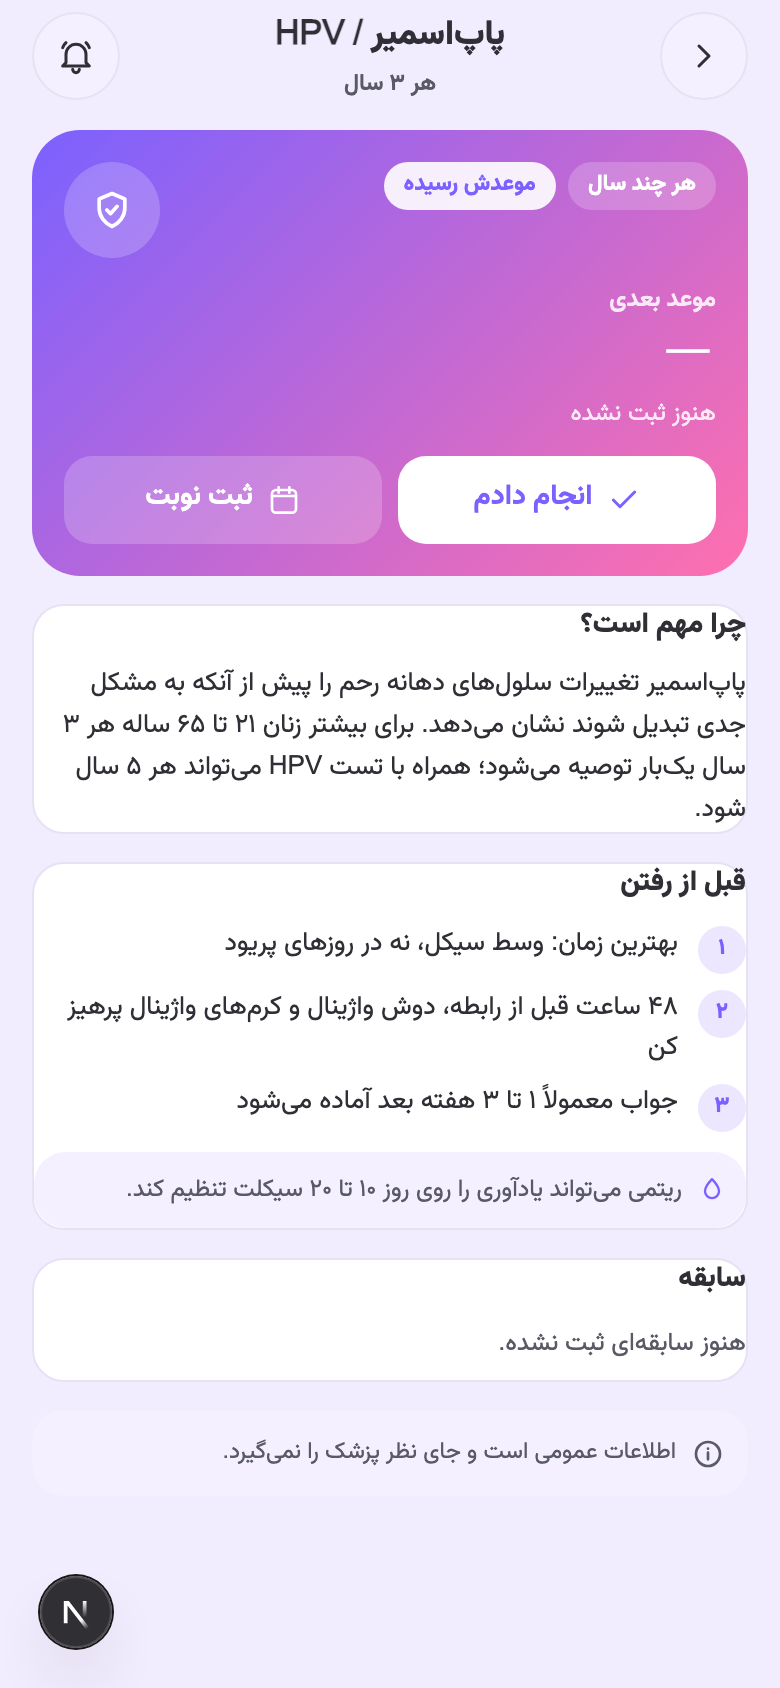
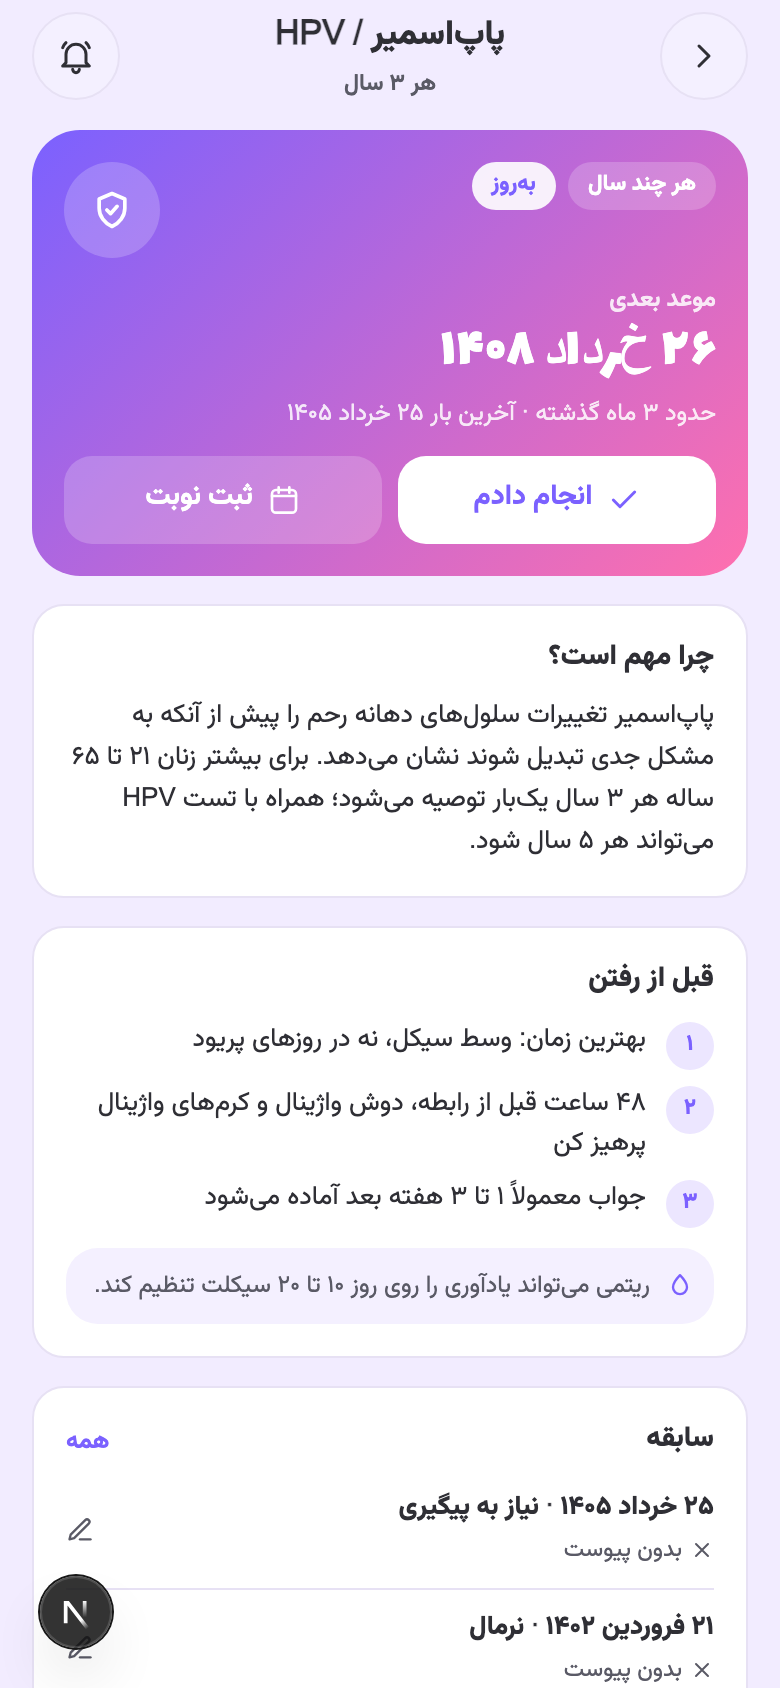
fix(checkups): PDF footer, card padding, locale digits and section order (T-M4-11)

diff --git a/frontend/src/screens/checkup-history/ui/CheckupHistoryPage.tsx b/frontend/src/screens/checkup-history/ui/CheckupHistoryPage.tsx
@@ -79,7 +79,7 @@ function useSummaryPdf(type: number | null) {
       }
       blocks.push({ kind: 'rule' });
       blocks.push({ kind: 'muted', text: t('history.pdf.disclaimer') });
-      const blob = await renderPdf({ blocks, dir, footer: t('history.pdf.footer') });
+      const blob = await renderPdf({ blocks, dir, locale, footer: t.raw('history.pdf.footer') as string });
       await shareOrDownloadFile(blob, t('history.pdf.filename'));
       setState('idle');
     } catch {
@@ -119,7 +119,7 @@ function RecordItem({ record, last }: { record: CheckupRecord; last: boolean }) 
         </span>
         <button
           type="button"
-          className="card flex w-full flex-col gap-1.5 text-start"
+          className="card flex w-full flex-col gap-1.5 p-4 text-start"
           aria-label={t('detail.editRecord')}
           onClick={() => openSheet(MARK_DONE_SHEET, editRecordSheetArg(record))}
         >
@@ -163,6 +163,7 @@ function RecordItem({ record, last }: { record: CheckupRecord; last: boolean }) 
  */
 export function CheckupHistoryPage({ type }: { type: number | null }) {
   const t = useTranslations('checkups');
+  const locale = useLocale() as Locale;
   const dir = useDirection();
   const [filter, setFilter] = useState<CheckupRecordFilter>('all');
   const query = useCheckupRecords({ filter, type });
@@ -198,7 +199,7 @@ export function CheckupHistoryPage({ type }: { type: number | null }) {
           <div className="rmd-hdr-text">
             <h1 className="rmd-hdr-title">{t('history.title')}</h1>
             {query.data && (
-              <p className="rmd-hdr-sub">{t('history.count', { count: total })}</p>
+              <p className="rmd-hdr-sub">{t('history.count', { count: formatNumber(total, locale) })}</p>
             )}
           </div>
           <button
@@ -215,7 +216,7 @@ export function CheckupHistoryPage({ type }: { type: number | null }) {
         <div className="rmd-body flex flex-col gap-3 pb-8">
           <button
             type="button"
-            className="card flex items-center gap-3 text-start"
+            className="card flex items-center gap-3 p-4 text-start"
             disabled={pdf.state === 'working'}
             onClick={() => void pdf.run()}
           >

diff --git a/frontend/src/shared/lib/pdf/render.ts b/frontend/src/shared/lib/pdf/render.ts
@@ -1,3 +1,6 @@
+import type { Locale } from '@/shared/i18n';
+import { formatNumber } from '@/shared/lib/date';
+
 import { A4_POINTS, type PdfImagePage, buildImagePdf } from './writer';
 
 /**
@@ -18,8 +21,20 @@ export interface PdfDocumentSpec {
   dir: 'rtl' | 'ltr';
   /** CSS font-family; defaults to the page's body font (Vazirmatn in the app). */
   fontFamily?: string;
-  /** Footer on every page, e.g. the app name + date. `{page}`/`{pages}` are replaced. */
+  /**
+   * Footer on every page, e.g. the app name + date. `{page}`/`{pages}` are
+   * replaced, so pass the raw message template (`t.raw(...)`), not `t(...)`.
+   */
   footer?: string;
+  /** Locale for the footer's page numbers (fa → Persian digits). */
+  locale: Locale;
+}
+
+/** Fill a footer template's `{page}`/`{pages}` with locale digits. */
+export function formatPdfFooter(template: string, page: number, pages: number, locale: Locale): string {
+  return template
+    .replace('{page}', formatNumber(page, locale))
+    .replace('{pages}', formatNumber(pages, locale));
 }
 
 // A4 at ~144 dpi: sharp enough to read on a phone and to print.
@@ -139,9 +154,7 @@ export async function renderPdf(spec: PdfDocumentSpec): Promise<Blob> {
       ctx.font = font('muted');
       ctx.fillStyle = STYLE.muted.color;
       ctx.textAlign = 'center';
-      const footer = spec.footer
-        .replace('{page}', String(p + 1))
-        .replace('{pages}', String(pagesLines.length));
+      const footer = formatPdfFooter(spec.footer, p + 1, pagesLines.length, spec.locale);
       ctx.fillText(footer, PAGE_W / 2, PAGE_H - MARGIN / 2);
     }
     pages.push({ jpeg: await toJpeg(canvas), pixelWidth: PAGE_W, pixelHeight: PAGE_H });

diff --git a/frontend/src/screens/checkups/ui/CheckupsPage.tsx b/frontend/src/screens/checkups/ui/CheckupsPage.tsx
@@ -54,7 +54,7 @@ function SummaryCard({ summary }: { summary: CheckupSummary }) {
   ];
 
   return (
-    <section className="card flex flex-col gap-3" aria-label={t('list.statusTitle')}>
+    <section className="card flex flex-col gap-3 p-4" aria-label={t('list.statusTitle')}>
       <div className="flex items-start justify-between gap-3">
         <div className="text-start">
           <p className="text-[12px] font-semibold text-(--ink-3)">{t('list.statusTitle')}</p>
@@ -99,7 +99,7 @@ function CheckupRow({ item }: { item: CheckupItem }) {
         href={`/checkups/${item.id}`}
         className={clsx(
           `ck-tone-${item.tone}`,
-          'card flex items-center gap-3 text-start no-underline focus-visible:shadow-(--ring) focus-visible:outline-none',
+          'card flex items-center gap-3 p-4 text-start no-underline focus-visible:shadow-(--ring) focus-visible:outline-none',
         )}
       >
         <span className="grid size-11 shrink-0 place-items-center rounded-2xl bg-(--ck-soft) text-(--ck-ink)">
@@ -215,7 +215,7 @@ export function CheckupsPage({ initialFilter }: { initialFilter?: string }) {
                 </button>
               </div>
             ) : groups.length === 0 ? (
-              <div className="card flex flex-col items-center gap-2 py-8 text-center">
+              <div className="card flex flex-col items-center gap-2 px-4 py-8 text-center">
                 <Icon name="stetho" size={28} className="text-(--brand)" />
                 <p className="text-[13px] font-semibold text-(--ink-3)">{emptyText}</p>
               </div>

diff --git a/frontend/src/screens/checkups/model/view.ts b/frontend/src/screens/checkups/model/view.ts
@@ -45,7 +45,14 @@ export interface SectionGroup {
   items: CheckupItem[];
 }
 
-/** Items grouped by `section`, sections in the order the server first sends them. */
+/** Sections pinned to the top of the list, in this order (v14_Checkups: این ماه → عقبافتاده). */
+const PINNED_SECTIONS: readonly CheckupSection[] = ['this_month', 'overdue'];
+
+/**
+ * Items grouped by `section`. «این ماه» and «عقبافتاده» always come first (in
+ * that order), whatever order the server sends; the category sections follow in
+ * the order they first appear (the admin's `sort_order`). Items keep their order.
+ */
 export function groupBySection(items: readonly CheckupItem[]): SectionGroup[] {
   const groups = new Map<CheckupSection, CheckupItem[]>();
   for (const item of items) {
@@ -53,7 +60,14 @@ export function groupBySection(items: readonly CheckupItem[]): SectionGroup[] {
     if (list) list.push(item);
     else groups.set(item.section, [item]);
   }
-  return [...groups].map(([section, list]) => ({ section, items: list }));
+  const rank = (section: CheckupSection) => {
+    const i = PINNED_SECTIONS.indexOf(section);
+    return i === -1 ? PINNED_SECTIONS.length : i;
+  };
+  // Array.prototype.sort is stable, so unpinned sections keep first-seen order.
+  return [...groups]
+    .map(([section, list]) => ({ section, items: list }))
+    .sort((a, b) => rank(a.section) - rank(b.section));
 }
 
 export type SummaryStatus = 'overdue' | 'due' | 'up_to_date';

diff --git a/frontend/src/screens/checkup-self-exam/ui/SelfExamPage.tsx b/frontend/src/screens/checkup-self-exam/ui/SelfExamPage.tsx
@@ -64,7 +64,7 @@ function Hero({ detail }: { detail: CheckupDetail }) {
   let when: string | null = null;
   if (day !== null && total && from !== null && to !== null) {
     const days = daysUntilWindow(day, total, from, to);
-    when = days === 0 ? t('selfExam.whenNow') : t('selfExam.whenIn', { count: days });
+    when = days === 0 ? t('selfExam.whenNow') : t('selfExam.whenIn', { count: formatNumber(days, locale) });
   }
 
   return (
@@ -118,7 +118,7 @@ function Body({ detail }: { detail: CheckupDetail }) {
       <Hero detail={detail} />
 
       {detail.guideSteps.length > 0 && (
-        <section className="card flex flex-col gap-2.5 text-start">
+        <section className="card flex flex-col gap-2.5 p-4 text-start">
           <h2 className="text-[14px] font-extrabold text-(--ink)">
             {t('selfExam.stepsTitle', {
               count: formatNumber(detail.guideSteps.length, locale),
@@ -142,7 +142,7 @@ function Body({ detail }: { detail: CheckupDetail }) {
       )}
 
       {detail.findingOptions.length > 0 && (
-        <section className="card flex flex-col gap-2.5 text-start">
+        <section className="card flex flex-col gap-2.5 p-4 text-start">
           <h2 className="text-[14px] font-extrabold text-(--ink)">{t('selfExam.findingsTitle')}</h2>
           <p className="text-[12px] leading-relaxed text-(--ink-3)">{t('selfExam.findingsBody')}</p>
           <div className="flex flex-wrap gap-2" role="group" aria-label={t('selfExam.findingsTitle')}>

diff --git a/frontend/src/screens/checkup-detail/ui/CheckupDetailPage.tsx b/frontend/src/screens/checkup-detail/ui/CheckupDetailPage.tsx
@@ -179,14 +179,14 @@ export function CheckupDetailPage({ id }: { id: number }) {
         <Hero detail={detail} />
 
         {detail.why && (
-          <section className="card flex flex-col gap-2 text-start">
+          <section className="card flex flex-col gap-2 p-4 text-start">
             <h2 className="text-[14px] font-extrabold text-(--ink)">{t('detail.why')}</h2>
             <p className="text-[13px] leading-relaxed text-(--ink-2)">{detail.why}</p>
           </section>
         )}
 
         {(detail.prepSteps.length > 0 || hasCycleHint) && (
-          <section className="card flex flex-col gap-2.5 text-start">
+          <section className="card flex flex-col gap-2.5 p-4 text-start">
             <h2 className="text-[14px] font-extrabold text-(--ink)">{t('detail.prep')}</h2>
             <ol className="flex flex-col gap-2">
               {detail.prepSteps.map((step, i) => (
@@ -210,7 +210,7 @@ export function CheckupDetailPage({ id }: { id: number }) {
           </section>
         )}
 
-        <section className="card flex flex-col gap-1 text-start">
+        <section className="card flex flex-col gap-1 p-4 text-start">
           <div className="flex items-center justify-between">
             <h2 className="text-[14px] font-extrabold text-(--ink)">{t('detail.history')}</h2>
             {detail.records.length > 0 && (

diff --git a/frontend/src/screens/checkups/model/view.test.ts b/frontend/src/screens/checkups/model/view.test.ts
@@ -44,6 +44,24 @@ describe('checkups view', () => {
     expect(groups[0].items.map((i) => i.id)).toEqual([1, 3]);
   });
 
+  it('puts this month first and overdue second, whatever the server order', () => {
+    const groups = groupBySection([
+      item(1, 'annual'),
+      item(2, 'overdue'),
+      item(3, 'age_based'),
+      item(4, 'this_month'),
+      item(5, 'six_monthly'),
+      item(6, 'overdue'),
+    ]);
+    expect(groups.map((g) => g.section)).toEqual(['this_month', 'overdue', 'annual', 'age_based', 'six_monthly']);
+    expect(groups[1].items.map((i) => i.id)).toEqual([2, 6]);
+  });
+
+  it('puts overdue first when there is nothing this month', () => {
+    const groups = groupBySection([item(1, 'annual'), item(2, 'monthly'), item(3, 'overdue')]);
+    expect(groups.map((g) => g.section)).toEqual(['overdue', 'annual', 'monthly']);
+  });
+
   it('picks the worst status and builds bar segments', () => {
     expect(worstStatus({ total: 3, upToDate: 3, due: 0, overdue: 0 })).toBe('up_to_date');
     expect(worstStatus({ total: 3, upToDate: 1, due: 2, overdue: 0 })).toBe('due');

diff --git a/frontend/src/shared/lib/pdf/render.test.ts b/frontend/src/shared/lib/pdf/render.test.ts
@@ -1,0 +1,13 @@
+import { describe, expect, it } from 'vitest';
+
+import { formatPdfFooter } from './render';
+
+describe('formatPdfFooter', () => {
+  it('fills page numbers with Persian digits for fa', () => {
+    expect(formatPdfFooter('ریتمی · صفحه {page} از {pages}', 1, 12, 'fa')).toBe('ریتمی · صفحه ۱ از ۱۲');
+  });
+
+  it('keeps Latin digits for en', () => {
+    expect(formatPdfFooter('Ritme · page {page} of {pages}', 2, 3, 'en')).toBe('Ritme · page 2 of 3');
+  });
+});

diff --git a/frontend/src/screens/pregnancy-calendar/ui/PregnancyCalendarPage.tsx b/frontend/src/screens/pregnancy-calendar/ui/PregnancyCalendarPage.tsx
@@ -559,7 +559,7 @@ function ReportButton() {
       }
       blocks.push({ kind: 'rule' }, { kind: 'muted', text: t('calendar.pdf.disclaimer') });
 
-      const blob = await renderPdf({ blocks, dir, footer: t('calendar.pdf.footer') });
+      const blob = await renderPdf({ blocks, dir, locale, footer: t.raw('calendar.pdf.footer') as string });
       await shareOrDownloadFile(blob, t('calendar.pdf.filename'));
       setState('idle');
     } catch {

diff --git a/tasks/PROGRESS.md b/tasks/PROGRESS.md
@@ -740,3 +740,9 @@ Nothing needed fixing.
 - verify-all green. Local e2e light/dark: home card → list → detail → MarkDone with on-device attachment (IndexedDB) → history → PDF → self-exam → custom form; admin-web edit of `blood_test` title visible in the app. 41 screenshots in `docs/checkups/screenshots/`; evidence in `docs/checkups/README.md` § Local e2e.
 - Bugs → T-M4-11 (PDF footer raw key, card padding, Latin digits, overdue section order).
 - Still open (human): catalog content sign-off (6 seeded items listed in README), staging UI click-through (no server access for the agent), production when asked.
+
+## T-M4-11 — Checkups UI polish from local e2e
+- PDF footer uses `t.raw` + new `formatPdfFooter` (locale digits; `PdfDocumentSpec.locale` now required) — fixes checkups history and pregnancy calendar PDFs.
+- `p-4` on checkups list/detail/history/self-exam cards; `formatNumber` for history count and self-exam days; `groupBySection` puts this_month then overdue first (frontend, API order undocumented).
+- Frontend verify green (559 tests); screenshots re-taken in `docs/checkups/screenshots/`.
+- Open: pregnancy calendar PDF not generated in a browser (unit-tested only); minor design items 5a–5d in README.

diff --git a/tasks/INDEX.md b/tasks/INDEX.md
@@ -85,7 +85,7 @@ _Generated by `tasks/bin/index.sh` — do not edit by hand._
 | [T-M4-08](M4/T-M4-08-frontend-checkup-detail-and-mark-done.md) | done | M4-B | frontend | T-M4-05 | Frontend — Checkup detail screen and MarkDone sheet |
 | [T-M4-09](M4/T-M4-09-frontend-history-and-self-exam.md) | done | M4-C | frontend | T-M4-08 | Frontend — Checkup history (+ PDF summary) and breast self-exam guide |
 | [T-M4-10](M4/T-M4-10-checkups-rollout.md) | in_progress | M4-D | release | T-M4-02, T-M4-04, T-M4-06, T-M4-07, T-M4-09, T-M2-09 | Checkups rollout — route checkups and admin catalog to Go, content review, stage |
-| [T-M4-11](M4/T-M4-11-checkups-ui-polish-from-local-e2e.md) | todo | M4-D | frontend | T-M4-07,T-M4-08,T-M4-09 | Checkups UI polish from local e2e |
+| [T-M4-11](M4/T-M4-11-checkups-ui-polish-from-local-e2e.md) | done | M4-D | frontend | T-M4-07,T-M4-08,T-M4-09 | Checkups UI polish from local e2e |
 
 ## M5
 

diff --git a/docs/checkups/README.md b/docs/checkups/README.md
@@ -234,7 +234,7 @@ App screens were captured in `-light` and `-dark`. Admin screens are light only.
 
 Note: the admin form is a full-page capture, so its sticky save bar appears mid-page. That is a capture artifact, not a bug.
 
-### Bugs found (not fixed, report only)
+### Bugs found (1–4 fixed in T-M4-11)
 
 1. **PDF footer is a raw i18n key.** Every page of the doctor summary prints `checkups.history.pdf.footer`, and the console
    logs `IntlError: FORMATTING_ERROR: The intl string context variable "page" was not provided`. The cause is
